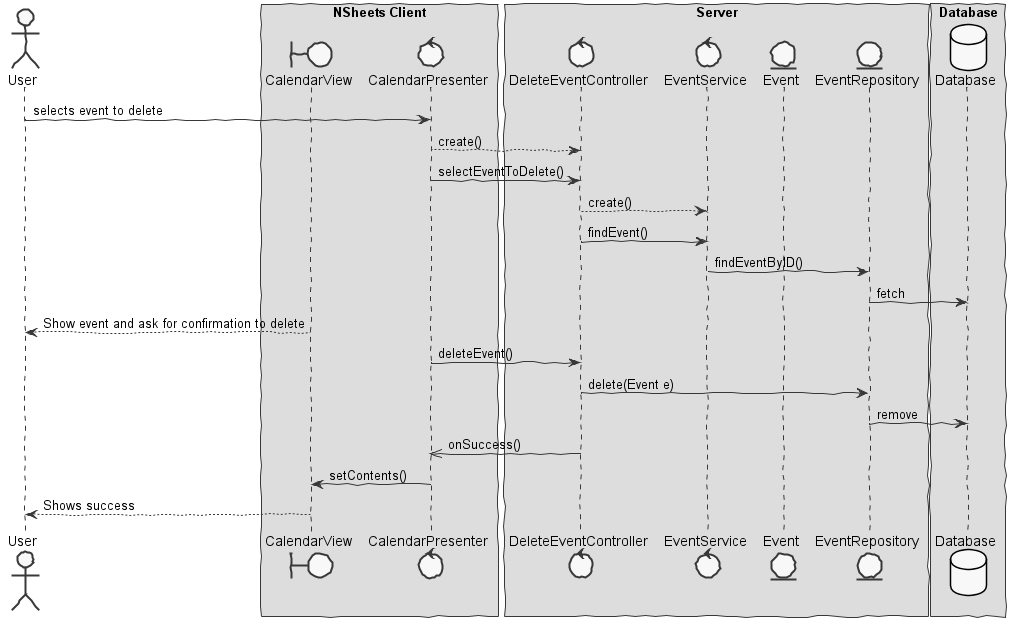
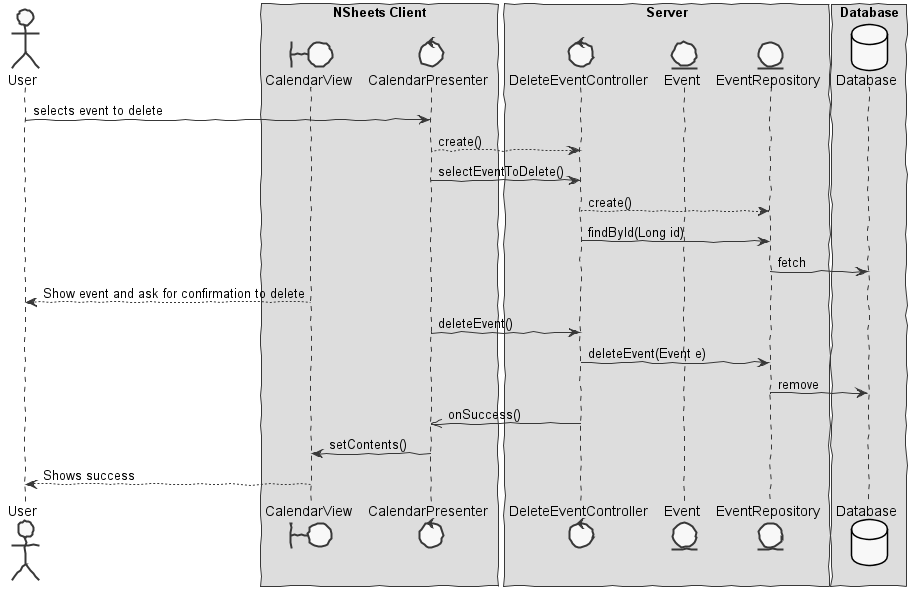
[Core06.1] Last updates on documentation and last minute alterations in persistence

diff --git a/server/src/main/java/pt/isep/nsheets/server/lapr4/white/s1/core/n4567890/workbooks/persistence/jpa/JpaEventRepository.java b/server/src/main/java/pt/isep/nsheets/server/lapr4/white/s1/core/n4567890/workbooks/persistence/jpa/JpaEventRepository.java
@@ -7,8 +7,10 @@ import pt.isep.nsheets.server.lapr4.white.s1.core.n4567890.workbooks.persistence
 import pt.isep.nsheets.server.lapr4.white.s1.core.n4567890.workbooks.persistence.PersistenceSettings;
 import pt.isep.nsheets.server.lapr4.white.s1.core.n4567890.workbooks.persistence.jpa.*;
 
+import javax.persistence.Query;
 import java.util.Date;
 import java.util.HashMap;
+import java.util.List;
 import java.util.Optional;
 
 public class JpaEventRepository extends NSheetsJpaRepositoryBase<Event, Long> implements EventRepository {
@@ -18,12 +20,21 @@ public class JpaEventRepository extends NSheetsJpaRepositoryBase<Event, Long> im
     }
 
     public void deleteEvent(Long id){
-        super.deleteByPK(id);
+        deleteByPK(id);
     }
 
     public Event findById(Long id){
-        Optional<Event> e = super.findOne(id);
+        Optional<Event> e = findOne(id);
 
         return e.get();
+    }
+
+    @Override
+    public List<Event> findByUserAndDates(User u, Date date) {
+         HashMap<String, Object> params = new HashMap<>();
+         params.put("u", u);
+         params.put("date", date);
+         List<Event> ret = match("e.user = u and e.date = date", params);
+         return ret;
     }
 }

diff --git a/server/src/main/java/pt/isep/nsheets/server/lapr4/white/s1/core/n4567890/workbooks/persistence/EventRepository.java b/server/src/main/java/pt/isep/nsheets/server/lapr4/white/s1/core/n4567890/workbooks/persistence/EventRepository.java
@@ -1,7 +1,10 @@
 package pt.isep.nsheets.server.lapr4.white.s1.core.n4567890.workbooks.persistence;
 
 import eapli.framework.persistence.repositories.Repository;
+import pt.isep.nsheets.server.lapr4.green.s1.core.n1160570.login.domain.User;
 import pt.isep.nsheets.server.lapr4.red.s1.core.n1161213.events.domain.Event;
+
+import java.util.Date;
 
 
 public interface EventRepository extends Repository<Event, Long> {
@@ -9,4 +12,6 @@ public interface EventRepository extends Repository<Event, Long> {
     public void deleteEvent(Long id);
 
     public Event findById(Long id);
+
+    public Iterable<Event> findByUserAndDates(User u, Date date);
 }

diff --git a/server/src/main/java/pt/isep/nsheets/server/lapr4/red/s1/core/n1161213/events/application/CreateEventController.java b/server/src/main/java/pt/isep/nsheets/server/lapr4/red/s1/core/n1161213/events/application/CreateEventController.java
@@ -23,7 +23,7 @@ public class CreateEventController implements Controller {
 
     public void newEvent(String title, String description, User user, Date timestamp, Integer from, Integer to, boolean isAllDay){
         Duration duration = new Duration(from, to, isAllDay);
-        Event event = new Event(title, description, user, timestamp, duration);
+        Event event = new Event(title, description, user, timestamp, duration); //Can't obtain the user that is logged in. Not implemented yet.
 
         try {
             repo.save(event);

diff --git a/docs/red/s1161213/sp1/README.md b/docs/red/s1161213/sp1/README.md
@@ -16,12 +16,11 @@ Proposal:
 
 US01 - As an user I want to create event so that they can be be persisted and always presented in the calendar ordered by timestamps.
 
-US02 - As an user I want to edit or remove events so thtat these alterations can be persisted and reflected in the GUI view of these events.
+US02 - As an user I want to edit or remove events so that these alterations can be persisted and reflected in the GUI view of these events.
 
-In addiction to these cases, the GUI of the nsheets should have an option to present te calendar displaying all the existing events and giving the user the chance to add, edit and remove events.
+US03 - As an user I want the calendar to display my events so that I can keep track of future Events
 
 # 3. Analysis
-
 
 I need to:  
 
@@ -37,21 +36,21 @@ I need to:
 
 ![Use Cases](us.png)
 
-- **Use Cases**. For this feature I considered three very simple use cases. The use case to create an event corresponds to US01. On the contrary the US02 can be divided in two UC's, one to edit an event and the other is to remove an event from the database and calendar.
+- **Use Cases**. For this feature I considered four very simple use cases. The use case to create an event corresponds to US01. On the contrary the US02 can be divided in two UC's, one to edit an event and the other is to remove an event from the database and calendar. And a use case corresponding US03, display events.
 
 **Domain Model (for this feature increment)**
 
 ![Domain Model](dm.png)
 
-- **Domain Model**. The only thing added to then Domain Model in this feature is the "entity" event which represents the events created by the user. The event knows the user who created it.
+- **Domain Model**. The only thing added to then Domain Model in this feature is the"entity event which represents the events created by the user and the value object Duration. The event knows the user who created it.
 
 **System Sequence Diagrams**
 
-**For US1**
+**For US01**
 
 ![Analysis SD](analysis1.png)
 
-**For US2**
+**For US02**
 
 **Edit Event**
 
@@ -60,6 +59,10 @@ I need to:
 **Delete Event**
 
 ![Analysis SD](analysis3.png)
+
+**For US03**
+
+![Analysis SD](analysis4.png)
 
 # 4. Design
 
@@ -99,53 +102,36 @@ We will also have the class **Duration** to represent the duration of the event,
 
 **Services/Controllers**
 
-For this feature my proposal is to use an EventService that will be used for all the possible actions regarding events(create, delete and edit)
-
-For this feature I need a method thas is used in more than one US.
-
-The proposal is:
-
-	public interface EventsService extends RemoteService {
-		Iterable<Event> findbyUser(User user);
-		Event searchEvent();
-	}
-
-Tests:  
 - We will have a *controller* from creating an Event **(CreateEventController)**.
 - We will have a *controller* from editing an Event **(EditEventController)**.
 - We will have a *controller* from deleting an Event **(DeleteEventController)**.
+- - We will have a *controller* from displaying events **(ListEventsController)**.
 
 ## 4.2. Requirements Realization
 
-**For US1**
+**For US01**
 
 ![SD US1](design1.png)
 
 Notes:  
 - The diagram only depicts the less technical details of the scenario;  
 - For clarity reasons details such as the PersistenceContext or the RepositoryFactory are not depicted in this diagram.
-- **CreateEventController** is the *use case controller*;  
-- **EventServices** groups all the actions regarding Events.
+- The part of the design where we can get the authenticated user using the AuthorizationService and the UserSession is also not represented.
+- **CreateEventController** is the *use case controller*;
 
-**For US2**
+**For US02**
 
 **Edit Event**
+
 ![SD US2](design2.png)
 
-Notes:  
-- The diagram only depicts the less technical details of the scenario;  
-- For clarity reasons details such as the PersistenceContext or the RepositoryFactory are not depicted in this diagram.
-- **EditEventController** is the *use case controller*;  
-- **EventServices** groups all the actions regarding Events.
-
 **Delete Event**
+
 ![SD US2](design3.png)
 
-Notes:  
-- The diagram only depicts the less technical details of the scenario;  
-- For clarity reasons details such as the PersistenceContext or the RepositoryFactory are not depicted in this diagram.
-- **DeleteEventController** is the *use case controller*;  
-- **EventServices** groups all the actions regarding Events.
+**For US03**
+
+![SD US2](design4.png)
 
 ## 4.3. Classes
 
@@ -153,11 +139,9 @@ Notes:
 The following classes will be created:
 - Event: This class will represent an Event and should be an agregate root
 - Duration: It as value object that keeps all the information regarding the hours that an event starts and finishes
-- EventServices: Will have methods that can be used by multiple cases (ex. findAll(), findByID())
 - CreateEventController: Controller to create an event
 - EditEventController: Controller to edit an event
 - DeleteEventController: Controller do delete event
-- EventRepository: Repository for events
 
 ## 4.4. Design Patterns and Best Practices
 
@@ -167,28 +151,73 @@ By memory we apply/use:
 - Factory
 - Repository
 - Controller
+- MVP
 
 # 5. Implementation
 
 *If required you should present in this section more details about the implementation. For instance, configuration files, grammar files, etc. You may also explain the organization of you code. You may reference important commits.*
 
-**For US1**
+In the domain I thought that was important to represent the Duration of an event as a value object. The duration of an event has some very specific rules and makes sense to be represented as an entity. This class has a start hour and end hour that are represented from an interval from 100(1h00) to 2400(24h00) and keeps a boolean to indicate if an Event is set to occupy all day.
 
-**For US2**
+**Code Organization**
 
+Project **server**
+- pt.isep.nsheets.server.**lapr4.red.s1.core.n1161213**.events.application: contains the controllers  
+- pt.isep.nsheets.server.**lapr4.red.s1.core.n1161213**.events.domain: contains the domain classes  
+- pt.isep.nsheets.server.**lapr4.white.s1.core.n4567890**.workbooks.persistence: contains the persistence/JPA classes
 
-
-**Code Organization**  
-
+Project **NShests** (Not implemented)
+- The idea was to create the classes: **pt.isep.nsheets.client.aplication.calendar.CalendarView**, **pt.isep.nsheets.client.aplication.calendar.CalendarPresenter**  and **pt.isep.nsheets.client.aplication.calendar.CalendarModule**
+- And the file: **pt.isep.nsheets.client.aplication.calendar.CalendarView.ui.xml**  
 
 # 6. Integration/Demonstration
 
-*In this section document your contribution and efforts to the integration of your work with the work of the other elements of the team and also your work regarding the demonstration (i.e., tests, updating of scripts, etc.)*
+I am going to use this chapter to explain how I imagined the UI to be implemented since I wasn't able to do it. The idea was to have a page with a Calendar and has the user was making clicks on the days in this calendar he would receive a list of the events for that day below the calendar. Since I wasn't able to implement the UI I couldn't test the controller implementation and wasn't sure on how to handle the data returned by the UI which lead to a simple and incomplete Controller implementation.
 
 # 7. Final Remarks
 
-*In this section present your views regarding alternatives, extra work and future work on the issue.*
-
 # 8. Work Log
 
-*Insert here a log of you daily work. This is in essence the log of your daily work. It should reference your commits as much as possible.*
+**29th May - Tuesday**
+
+Made the clone of the repository and spent all day resolving problems with maven dependecies and plug-ins to work. Started analysing the code that was already implemented to facilitate my work.
+
+**30th May - Wednesday**
+
+The second day of work I continued to try understandin the code that was already implemented. This was something that gave me a lot of problems and I spent a lot of time doing this. Despite the time spent I think my understanding in the structure of the application isn't the best.
+
+**31th May - Thursday**
+
+Started to work on the documentation of my Feature. This was very difficult to do because I needed a better understanding of how to implement a UI because I had to plan how to implement the feature and needed to know how the Ui should be implemented to know wich type of data/objects the UI would return to the controllers and how to handle it.
+This is when I started some research on the UI. Used some of time reading the websites provided by the teachers and seeing some tutorials on how to implement a calendar view. Here follows some of the places I read:
+	- http://www.gwtproject.org/doc/latest/tutorial/create.html
+	- https://stackoverflow.com/questions/5664601/gwt-what-to-put-in-the-shared-folder?utm_medium=organic&utm_source=google_rich_qa&utm_campaign=google_rich_qa
+	- http://www.gwtproject.org/doc/latest/tutorial/RPC.html
+	- https://examples.javacodegeeks.com/enterprise-java/gwt/gwt-calendar-example/
+	- http://www.gwtproject.org/javadoc/latest/com/google/gwt/user/datepicker/client/CalendarView.html
+	- https://gwtmaterialdesign.github.io/gwt-material-demo/#pickers
+	- http://www.gwtproject.org/javadoc/latest/com/google/gwt/user/datepicker/client/DatePicker.html
+
+**1st June - Friday**
+
+Made major advances in the documentation of my feature. Continued to research and tried to implement a calendar view with the links that are in the point before to understand how to implement it on our project. It didn't work so I continued to work on the documentation. Also tried to get help from my team but none was able to help me so I got together with a student from another class that was working on the same feature to discuss solutions.
+
+**3rd June - Sunday**
+
+Continued to work on the documentation and made major advances as can be confirmed by the following commits:
+
+[Core06.1 Added Analysis](https://bitbucket.org/lei-isep/lapr4-18-2dl/commits/2d8b6df05e557eb1ba4c70d64f9998404c3cd9f1)
+[Core06.1 Added Design](https://bitbucket.org/lei-isep/lapr4-18-2dl/commits/ed28816723f334f844162170bb3da7712809161a)
+
+**4th June - Monday**
+
+In this considering the time that I had left I concentrated in the implemention of what I knew how to Implement. This gave me some minor problems because I still didn't knew wich type of data or objects I would obtain from the UI and how to handle it considering the user input. Despite this I was able to implement all the classes I needed regarding the domain and the persistence of data regarding Events. Also implemented the necessary controllers, altough in a very simple and incomplete manner. These  are the commits made in this day:
+	- [Core06.1 Domain Implementation](https://bitbucket.org/lei-isep/lapr4-18-2dl/commits/d2bd7eaa323da422a90ce782b547bfe89d2a11be)
+	- [Core06.1 Persistence](https://bitbucket.org/lei-isep/lapr4-18-2dl/commits/0e2d2522e72523ada93a195327bcd42f0a0ec474)
+	- [Core06.1 Application](https://bitbucket.org/lei-isep/lapr4-18-2dl/commits/93b788555b13327835d47ac05121c3ab1b33fc87)
+
+The end of the day I perceived that I had some errors in the documentation because I didn't considered the feature to list the events of the user and I concluded that I didn't need EventService.
+
+**5th June - Tuesday**
+
+Used the morning time to correct the errors and to finish the documentation.
